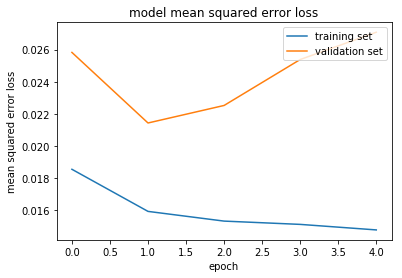
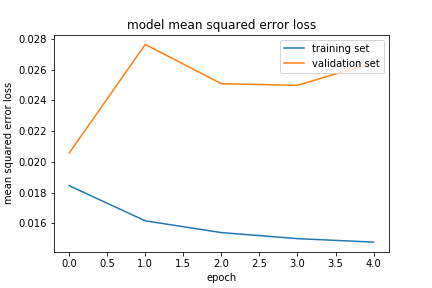
drawing some pics again

diff --git a/writeup_report.md b/writeup_report.md
@@ -57,9 +57,23 @@ For details about how I created the training data, see the next section.
 
 The overall strategy for deriving a model architecture was to start with a simple neural network and gradually adding more layers in order to reduce validation loss.
 
-- simple neural network
-- LeNet
-- Nvidia (see paper)
+simple neural network:
+
+![simple model](examples/loss_model_simple.png)
+
+minimal validation loss: 315.80576
+
+LeNet:
+
+![LeNet model](examples/loss_model_lenet.png)
+
+minimal validation loss: 0.02058
+
+Nvidia (see paper):
+
+![Nvidia model](examples/loss_model_nvidia.png)
+
+minimal validation loss: 0.02452
 
 My first step was to use a convolutional neural network model similar to the ... I thought this model might be appropriate because ...
 
